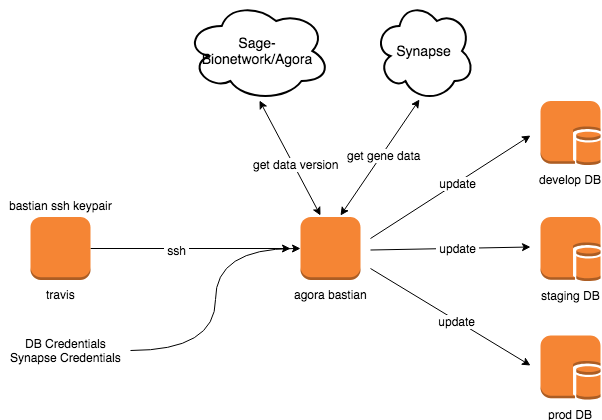
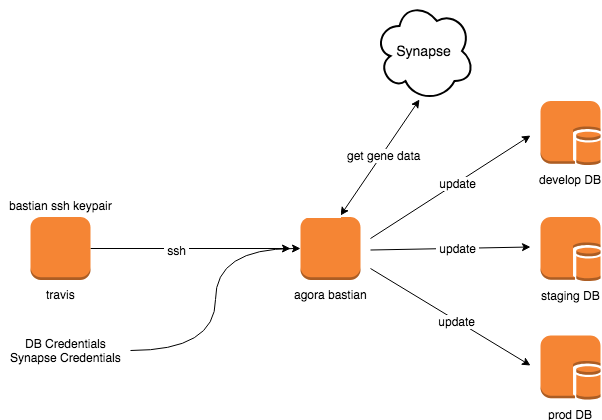
Adding data version to the data-manager pipeline (#7)
* Adding data version to the data-manager pipeline
- Added a data-manifest.json file with the data version, synapse id
  and team images folder id as a property
- Changed the import data script to not fetch the data
  version from the Agora app
- Added logic to fetch the data version from the
  data-manifest.json

* Updating README and diagram image
- Removed reference to the Agora app in the diagram image
- Updated the README with the new data-manifest.json as
  reference to the data-version update

diff --git a/README.md b/README.md
@@ -13,15 +13,13 @@ self service update.
 # Worflow
 
 To deploy an updated data version to the Agora development database
-1. Increment `data-version` in [package.json](https://github.com/Sage-Bionetworks/Agora/blob/develop/package.json)
-on the `develop` branch.
+1. Increment `data-version` in `data-manifest.json` on the `develop` branch.
 2. Commit the change
-3. Rerun the [travis build](https://travis-ci.org/Sage-Bionetworks/agora-data-manager/builds)
+3. The [CI system](https://travis-ci.org/Sage-Bionetworks/agora-data-manager) automatically updates the new version to the DB
 
 
 To deploy an updated data version to the staging and prod database.
 1. Merge data-version update to staging and prod branches.
-2. Rerun the agora-data-manager build for those branches.
 
 
 [db_update]: diagram1.png "update diagram"
